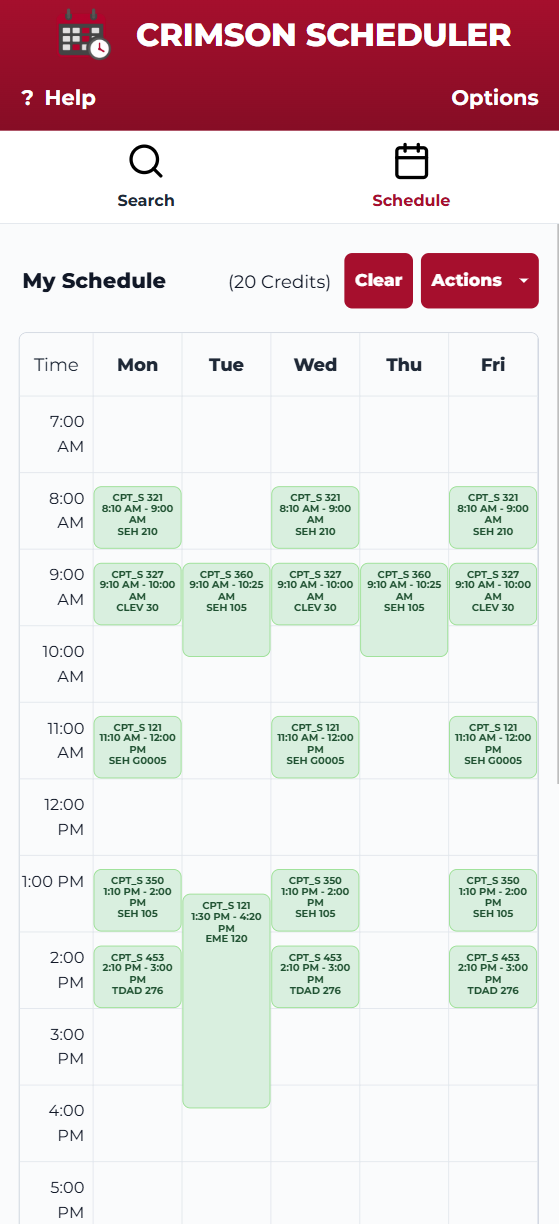
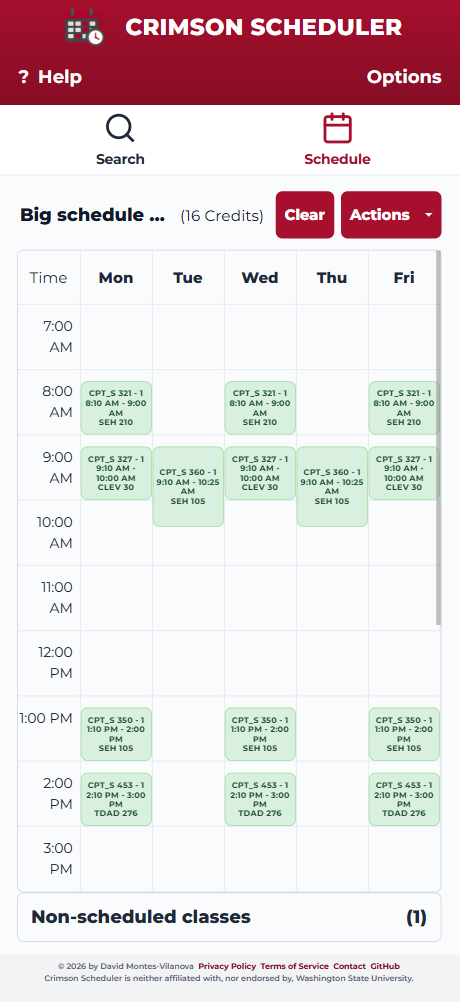
Update README and images to be up-to-date with state of site

diff --git a/README.md b/README.md
@@ -8,19 +8,18 @@ Users can choose a campus and term, search the published course catalog, and sel
 
 ## Features
 
-- Search courses by subject, number, course code, or title
-- Load the available WSU campus/term catalog dynamically and cache a term's course data in the browser for the current visit.
-- Filter results by open seats, delivery type (in person, online, or arranged), and UCORE designation.
+- Search courses by subject, number, course code, or title.
+- Filter results by open seats, delivery type, UCORE, meeting times, and more!
 - Review section number, meeting time, location, instructor, enrollment, and UCORE information before adding a class.
 - Choose lecture and lab sections together when a course requires a lab; removing either removes the paired selection.
-- Preview a section on the calendar while hovering or focusing it in the search results.
-- Render classes in a weekly calendar, flag overlapping meeting times, and provide direct removal controls for conflicts.
-- Keep arranged, TBA, online, and other unscheduled sections in a separate list instead of dropping them from the schedule.
+- Before adding a section, you can see a temporary block to show how the course may look in your schedule before officially adding it.
+- Course conflicts are flagged and made visual for the user to notice and resolve.
+- Arranged, TBA, online, and other unscheduled sections are placed in a separate list from the schedule.
 - Track total credits, rename the schedule, and clear the schedule when needed.
 - Export a calendar image (PNG) or a recurring `.ics` calendar file for compatible calendar apps.
-- Create and import compact share codes. Imported schedules are rebuilt from the latest published course data, so unavailable sections are reported instead of silently added.
-- Persist the schedule, name, display settings, and theme locally in the browser; no user account required.
-- Offer responsive desktop and mobile layouts, dark mode, 24-hour time, optional weekends, instructor/section labels, accessible filter controls, and in-app guidance.
+- Share calendars with friends using Share Codes! This can also be used to transfer your schedule across devices.
+- Your chosen courses, schedule configurations, and site settings are saved for your next visit.
+- Responsive desktop and mobile layouts, dark mode, 24-hour time, optional weekends, instructor/section labels, accessible filter controls, and in-app guidance.
 
 ## Mobile UI
 
@@ -32,9 +31,9 @@ Users can choose a campus and term, search the published course catalog, and sel
 
 The deployed application is a Django UI backed by a versioned, static course-data API hosted from the repository's `crimson-data` GitHub Pages branch. The browser fetches a catalog first, then retrieves only the selected campus/term JSON file. Search and filtering run client-side, which keeps normal course browsing off the Django database and avoids repeated requests to WSU while a user types.
 
-Course data originates from WSU's public schedule endpoints. The scheduled GitHub Actions workflow regenerates the static catalog hourly and publishes it to the data branch. Section availability and other catalog details can therefore lag behind the official registration systems.
+Course data originates from WSU's public schedule endpoints. The scheduled GitHub Actions workflow regenerates the static catalog roughly every 2-3 hours and publishes it to the data branch. Section availability and other catalog details can therefore lag behind the official registration systems.
 
-The repository still includes Django models and session-backed schedule endpoints from the earlier server-backed implementation. They are retained and covered by tests, but the primary schedule-builder flow is browser-first and uses the static catalog.
+The repository still includes Django models and session-backed schedule endpoints from the earlier server-backed implementation. They are retained and covered by tests, but the primary schedule-builder flow is browser-first and uses the static catalog. The reason these models and endpoints are maintained are for history reasons.
 
 ## Tech stack
 
@@ -50,29 +49,38 @@ The repository still includes Django models and session-backed schedule endpoint
 
 ```text
 .
-|-- .github/workflows/           # CI, CodeQL, and hourly course-data publication
-|-- dataCollection/              # WSU API importer and JSON catalog generator
-|   `-- dataHandler/
-|       |-- data.py              # Requests/transforms WSU schedule data
-|       |-- generate_json.py     # Builds the static API under _generated_site/
-|       `-- json_storage.py      # Serializes catalog and campus/term JSON files
-|-- readme-images/               # README screenshots (maintained manually)
-|-- tests/                       # Vitest unit tests for browser logic
+|-- .github/
+|   `-- workflows/               # CI, security checks, and course-data publishing
+|-- dataCollection/
+|   |-- classHandler/             # Legacy WSU response/model helpers
+|   `-- dataHandler/              # Scrapers and static JSON catalog generators
+|-- _generated_site/              # Locally generated static API output
+|-- readme-images/                # README screenshots
+|-- tests/                        # Vitest tests for browser-side behavior
 |-- web/
 |   |-- classes/
-|   |   |-- static/js/           # Course API client and schedule UI modules
-|   |   |-- static/css/          # Responsive and theme styles
-|   |   |-- templates/classes/   # Builder, help, legal, and contact pages
-|   |   |-- urls.py              # App routes
-|   |   `-- views.py             # Page views and catalog bootstrap
-|   |-- manage.py
-|   `-- web/                     # Django settings and root URL configuration
-|-- package.json                 # Vite, ESLint, and Vitest commands
-|-- pyproject.toml               # Python project and Ruff configuration
-|-- requirements*.txt            # Runtime and development Python dependencies
-|-- vercel.json                  # Production build command
+|   |   |-- migrations/           # Django database migrations
+|   |   |-- static/
+|   |   |   |-- css/              # Base, schedule, and search-result styles
+|   |   |   |-- help/             # Help-guide screenshots
+|   |   |   `-- js/               # API client, schedule modules, and built bundle
+|   |   |-- templates/classes/    # Shared layout, builder, help, and legal pages
+|   |   |-- admin.py              # Optional Django admin registrations
+|   |   |-- models.py             # Legacy/server-side schedule data models
+|   |   |-- urls.py               # Application routes
+|   |   |-- views.py              # Django pages and server-side endpoints
+|   |   `-- rate_limit.py         # Redis-backed request limiting
+|   |-- manage.py                 # Django management commands
+|   `-- web/                      # Django settings, WSGI/ASGI, and root URLs
+|-- main.py                       # Legacy database importer entry point
+|-- package.json                  # Vite, ESLint, and Vitest commands
+|-- pyproject.toml                # Python tooling and Ruff configuration
+|-- requirements*.txt             # Runtime and development Python dependencies
+|-- vercel.json                   # Deployment/build configuration
 `-- README.md
 ```
+
+The browser-first schedule builder reads the published catalog from the static API and keeps a user's active schedule in local storage. The Django models, migrations, importer, and optional admin registrations remain for the server-backed schedule endpoints and maintenance workflows; they are not required to browse the published catalog.
 
 ## Local development
 
@@ -149,6 +157,7 @@ python manage.py test
 GitHub Actions runs Python and JavaScript linting, Django checks/tests, Vitest, CodeQL analysis, and the hourly data-publication workflow.
 
 ## Routes
+The table showcases all actively used routes, legacy or otherwised unused routes are not listed.
 
 | Route | Purpose |
 | --- | --- |
@@ -156,32 +165,42 @@ GitHub Actions runs Python and JavaScript linting, Django checks/tests, Vitest, 
 | `/privacy-policy/` | Privacy policy |
 | `/terms-of-service/` | Terms of service |
 | `/contact/` | Contact and feedback guidance |
-| `/admin/` | Django administration |
-| `/api/schedule-data/` | Legacy session schedule data |
-| `/api/sections-by-ids/` | Legacy section lookup endpoint |
 
 ## Privacy and data notes
 
 Schedules, display preferences, schedule names, and theme selection are stored in the browser's local storage. A legacy cookie reader is retained for older schedules, but the current builder persists new schedules in local storage. Share codes encode a schedule name and campus/term section identifiers; they are not stored on the server.
 
-The site uses Vercel Web Analytics for aggregate traffic information. Consult the in-app [Privacy Policy](/privacy-policy/) for the current details.
+The site uses Vercel Web Analytics for aggregate traffic information. Consult the in-app [Privacy Policy](https://crimsonscheduler.com/privacy-policy/) for the current details.
 
 ## Future work
 
-- [ ] Deploy and maintain the public production experience.
+- [x] Deploy and maintain the public production experience.
 - [x] Add image and calendar export.
 - [x] Add share/import codes.
 - [x] Add client-side availability, delivery, and UCORE filters.
-- [ ] Explore reliable instructor-rating links or a user-submitted rating system.
-- [ ] Improve visibility into how fresh enrollment counts are after each catalog refresh.
-- [ ] Add course descriptions, prerequisites, and degree-planning relationships when reliable source data is available.
+- [x] Explore reliable instructor-rating links or a user-submitted rating system.
+- [x] Improve visibility into how fresh enrollment counts are after each catalog refresh.
+- [x] Add course descriptions and prerequisites to course data for a more educated user experience.
+- [ ] Add degree-planning relationships to help map out course relationships and plan for future semesters.
 - [ ] Visualize walking routes between class locations.
+
+## Contributing
+
+You're free to help contribute to Crimson Scheduler!
+
+Be sure to follow the local development above to get started. Recall that Crimson Scheduler now uses the github pages API endpoint for fetching course information, NOT the PostgreSQL and Redis storage.
+
+If you plan on fixing a bug or adding a feature, please be sure to create an issue first to alert others about what you find or want to add.
+
+If any other clarifications are needed for contribution, please reach out!
 
 ## Disclaimer
 
 Crimson Scheduler is an independent third-party project. It is not affiliated with, endorsed by, sponsored by, or otherwise officially associated with Washington State University.
 
-It is a planning tool, not a registration system. Always verify course availability, meeting times, instructors, locations, prerequisites, and registration requirements through official WSU resources before enrolling.
+Always verify course availability, meeting times, instructors, locations, prerequisites, and registration requirements through official WSU resources before enrolling.
+
+You cannot enroll using Crimson Scheduler.
 
 ## License
 
